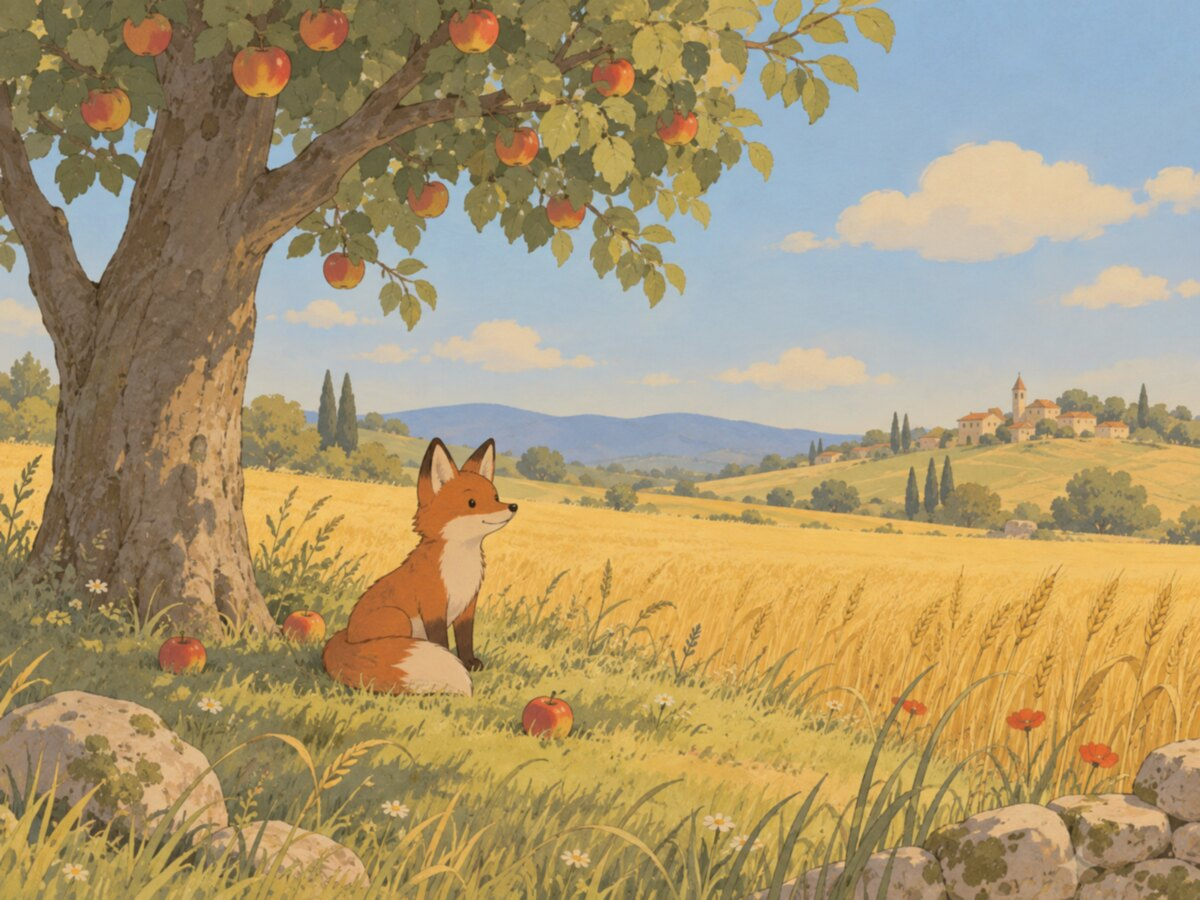
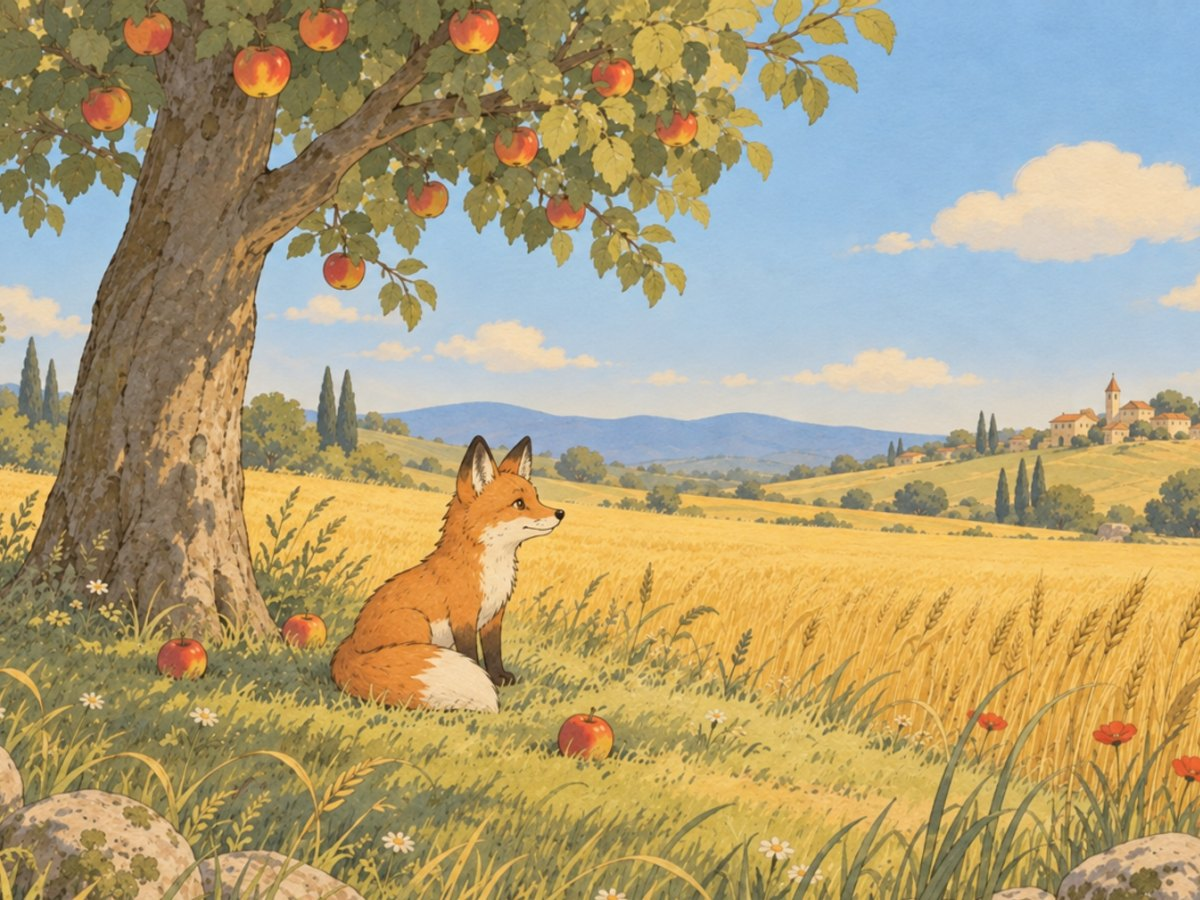
Little Prince faces matched to the reference sheets: the pilot in nine pictures, the geographer (15-f1, chapter 15), the king's crown in 10-f7, the fox in 21-1 and 21-f1 to 21-f3

diff --git a/books/little-prince/film/shots.js b/books/little-prince/film/shots.js
@@ -38,7 +38,7 @@ window.LP_FILM_SHOTS = {
   '01-3': { tone: 'interior', focus: [0.46, 0.48] },
   '02-1': { tone: 'sunset', focus: [0.47, 0.19], prince: [0.47, 0.19] },
   '02-2': { tone: 'desert-day', focus: [0.76, 0.3], pilot: [0.37, 0.2], prince: [0.76, 0.3], sheep: [0.53, 0.76] },
-  '02-3': { tone: 'desert-day', focus: [0.65, 0.27], pilot: [0.34, 0.33], prince: [0.65, 0.27], sheep: [0.4, 0.77] },
+  '02-3': { tone: 'desert-day', focus: [0.67, 0.28], pilot: [0.34, 0.33], prince: [0.67, 0.28], sheep: [0.4, 0.77] },
   '02-4': { tone: 'desert-day', focus: [0.37, 0.37], prince: [0.37, 0.37], pilot: [0.62, 0.24], sheep: [0.53, 0.81] },
   '02-5': { tone: 'desert-day', focus: [0.4, 0.33], prince: [0.4, 0.33], pilot: [0.8, 0.28], sheep: [0.49, 0.53] },
   '04-1': { tone: 'space', focus: [0.65, 0.2], prince: [0.65, 0.2] },
@@ -46,7 +46,7 @@ window.LP_FILM_SHOTS = {
   '08-1': { tone: 'sunset', focus: [0.43, 0.2], prince: [0.43, 0.2], rose: [0.58, 0.54] },
   '09-1': { tone: 'sunset', focus: [0.46, 0.28], prince: [0.46, 0.28], rose: [0.82, 0.57] },
   '20-1': { tone: 'day', focus: [0.71, 0.5], prince: [0.71, 0.5], roses: [0.42, 0.3] },
-  '21-1': { tone: 'day', focus: [0.39, 0.56], fox: [0.39, 0.56] },
+  '21-1': { tone: 'day', focus: [0.42, 0.56], fox: [0.42, 0.56] },
   '26-1': { tone: 'desert-night', focus: [0.27, 0.56], prince: [0.27, 0.56] },
   '27-1': { tone: 'sunset', focus: [0.72, 0.17] },
   // pictures added for the film (ids -f1 …), measured the same way
@@ -61,12 +61,12 @@ window.LP_FILM_SHOTS = {
   '04-f2': { tone: 'interior', focus: [0.31, 0.22], astronomer: [0.31, 0.22], grownups: [0.83, 0.63] },
   '04-f3': { tone: 'day', focus: [0.62, 0.42] },
   '04-f4': { tone: 'interior', focus: [0.28, 0.2], pilot: [0.28, 0.2] },
-  '05-f1': { tone: 'desert-day', focus: [0.81, 0.29], pilot: [0.38, 0.31], prince: [0.81, 0.29] },
+  '05-f1': { tone: 'desert-day', focus: [0.89, 0.3], pilot: [0.38, 0.31], prince: [0.89, 0.3] },
   '05-f2': { tone: 'space', focus: [0.44, 0.35] },
   '05-f3': { tone: 'day', focus: [0.52, 0.52] },
   '05-f4': { tone: 'day', focus: [0.47, 0.38], prince: [0.47, 0.38], rose: [0.89, 0.51] },
   '06-f1': { tone: 'sunset', focus: [0.32, 0.3], prince: [0.32, 0.3] },
-  '07-f2': { tone: 'desert-day', focus: [0.77, 0.31], pilot: [0.3, 0.2], prince: [0.77, 0.31] },
+  '07-f2': { tone: 'desert-day', focus: [0.84, 0.32], pilot: [0.33, 0.2], prince: [0.84, 0.32] },
   '07-f3': { tone: 'space', focus: [0.55, 0.29], businessman: [0.55, 0.29] },
   '07-f4': { tone: 'desert-night', focus: [0.38, 0.34], pilot: [0.34, 0.2], prince: [0.38, 0.34] },
   '08-f1': { tone: 'day', focus: [0.23, 0.71] },
@@ -92,7 +92,7 @@ window.LP_FILM_SHOTS = {
   '15-f4': { tone: 'interior', focus: [0.34, 0.15], explorer: [0.34, 0.15], geographer: [0.51, 0.31], prince: [0.83, 0.3] },
   '16-f1': { tone: 'space', focus: [0.77, 0.6], lamplighter: [0.77, 0.6] },
   '17-f1': { tone: 'desert-night', focus: [0.4, 0.23], prince: [0.4, 0.23], snake: [0.53, 0.63] },
-  '21-f1': { tone: 'sunset', focus: [0.28, 0.35], prince: [0.28, 0.35], fox: [0.4, 0.42] },
+  '21-f1': { tone: 'sunset', focus: [0.28, 0.35], prince: [0.28, 0.35], fox: [0.43, 0.41] },
   '21-f2': { tone: 'day', focus: [0.73, 0.3], fox: [0.23, 0.42], prince: [0.73, 0.3] },
   '21-f3': { tone: 'day', focus: [0.4, 0.37], fox: [0.4, 0.37], prince: [0.81, 0.32] },
   '21-f4': { tone: 'sunset', focus: [0.41, 0.43], prince: [0.5, 0.2], fox: [0.41, 0.43] },

diff --git a/books/little-prince/images/README.md b/books/little-prince/images/README.md
@@ -153,3 +153,15 @@ chapter-20은 어린 왕자가 조금 옮겨져서 `../film/shots.js`의 점을 
 - **01-2, 01-3**: 크레용으로 그리는 아이의 소매는 어린 시절 화자의 것입니다. chapter-01의 파란 세일러복에 맞춰 노란색에서 파란색으로 바꿨습니다.
 
 `../film/shots.js`에서는 04-f4 조종사, 13-f2 어린 왕자, 13-f6 사업가의 점을 다시 잡았습니다.
+
+### 다른 어른과 여우 맞춤 (2026-09-26)
+
+인물마다 모든 그림의 얼굴을 잘라 기준 이미지 옆에 놓고 비교했습니다. 기준과 달라 보이던 그림만 같은 방법(머리만 고치는 국소 편집, 기준 이미지와 그 윗부분을 2배로 키운 머리 기준)으로 고쳤습니다.
+
+- **조종사**: 02-2, 02-3, 02-5, 05-f1, 07-f2, 25-f2, 25-f3, 26-f7, 27-f1. 너무 부푼 머리, 둥근 얼굴, 큰 애니메이션 눈을 기준대로 바꿨습니다. 머리숱은 적당하고 얼굴은 갸름하며 눈은 작은 갈색 타원입니다.
+- **지리학자**: 15-f1, chapter-15. 뒤로 뻗친 긴 갈기 머리를 기준처럼 옆으로 부푼 흰 머리로 바꾸고, 얼굴도 둥글고 순하게 했습니다.
+- **왕**: 10-f7. 지나치게 크던 왕관을 기준 크기로 줄였습니다.
+- **여우**: 21-1(짙은 적갈색 털), 21-f1(짙은 눈테, 가는 주둥이), 21-f2, 21-f3(귀 위쪽 절반이 검음). 기준은 밝은 주황 털, 흰 가슴·뺨, 끝만 검은 귀, 호박색 눈입니다.
+- 뱀, 허영쟁이, 술꾼, 점등인, 전철수, 상인, 천문학자는 기준과 맞아서 그대로 두었습니다. 16-f1의 여러 나라 점등인과 26-f8의 작은 인물들은 다른 사람들입니다.
+
+02-3은 처음 편집에서 조종사 몸이 잘려 다시 그렸습니다. `../film/shots.js`에서는 02-3, 05-f1, 07-f2의 어린 왕자, 07-f2의 조종사, 21-1과 21-f1의 여우 점을 다시 잡았습니다.
